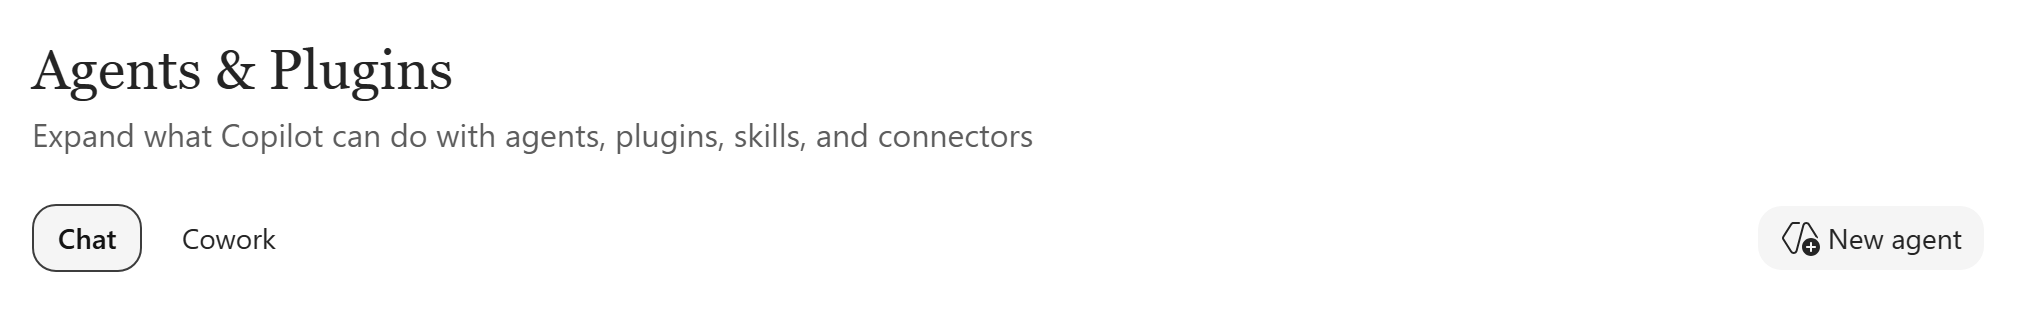
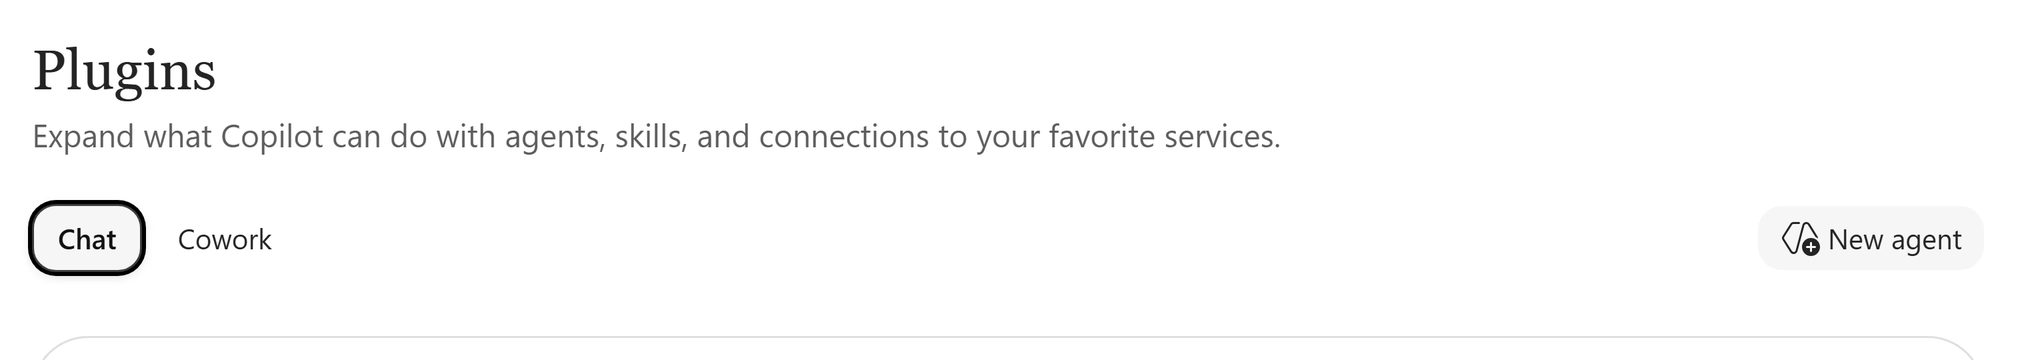
fix(labs): rename Agents & Plugins to Plugins and make the Dataverse Connect step explicit
The left navigation and page heading now read Plugins. Rename the label across the Cowork, Copilot harness, M365 Copilot and declarative agent labs (site and README copies) and drop the 'also called Agents & Plugins' hedges.

The Cowork Dataverse step now says that enabling the plugin is not enough: select Connect Microsoft Dataverse, enter the training CRM URL and confirm Connected.

Refresh the harness Plugins screenshot from the declarative lab's current capture, update the mission test assertion, and align the lab-runthrough and lab-update skill notes and examples.

diff --git a/scripts/lab-missions.test.js b/scripts/lab-missions.test.js
@@ -127,7 +127,7 @@ test('Zava separates work-file Chat, the agent MCP App, and Cowork plugin setup'
   assert.match(agent.steps[2].instruction, /MCP App/);
   assert.match(agent.steps[2].help, /enter `50000` without the currency symbol or comma/);
   assert.match(agent.steps[2].notice, /do not overwrite the renewal amount/);
-  assert.match(delegate.steps[0].instruction, /Agents & Plugins → Cowork → Microsoft Dataverse/);
+  assert.match(delegate.steps[0].instruction, /Plugins → Cowork → Microsoft Dataverse/);
   assert.match(delegate.steps[0].help, /https:\/\/zavasalesdemo\.crm\.dynamics\.com\//);
   assert.match(delegate.steps[1].instruction, /Zava PowerPoint/);
   assert.match(delegate.steps[2].instruction, /explicitly select \*\*Cowork/);

diff --git a/_labs/mission-cowork-zava-sales.md b/_labs/mission-cowork-zava-sales.md
@@ -107,7 +107,7 @@ mission_lab:
           notice: "In this training experience, Chat may not retrieve the live deal and can recommend **Zava Sales Hub** instead. That is the handoff to explore, not proof that Dataverse is unavailable in every Copilot Chat tenant. Do not accept a generic call plan as a verified CRM brief."
         - title: "Follow the Zava Sales Hub recommendation"
           instruction: "Select the recommendation to **Try Zava Sales Hub**. Check that the same renewal prompt is carried into the agent conversation; send it if it is only prefilled. Confirm that you are now talking to **Zava Sales Hub**, then review its deal status, attention points and three call questions against the returned records."
-          notice: "The recommendation's wording can vary. If no card appears, open **Agents & Plugins → Chat**, find the facilitator-provided **Zava Sales Hub** agent, and paste the same prompt there. Some sessions shorten the sidebar label to **Plugins**. If Chat starts a research task instead, select **Stop task** on that task card before opening the agent; do not wait for a separate research run in this exercise. If the agent is unavailable, ask the proctor; do not install a lookalike or invent the CRM answer."
+          notice: "The recommendation's wording can vary. If no card appears, open **Plugins → Chat**, find the facilitator-provided **Zava Sales Hub** agent, and paste the same prompt there. If Chat starts a research task instead, select **Stop task** on that task card before opening the agent; do not wait for a separate research run in this exercise. If the agent is unavailable, ask the proctor; do not install a lookalike or invent the CRM answer."
         - title: "Create a lead in the MCP App"
           instruction: "In the **same Zava Sales Hub agent conversation**, send the follow-up. Select **Confirm** when prompted, complete and review the embedded lead form, then select **Accept and save** once. This interactive form inside the agent is an **MCP App**, not a switch to Cowork."
           prompt_label: Follow-up in Zava Sales Hub
@@ -156,9 +156,9 @@ mission_lab:
       outcome: "A Zava-branded three-slide review separating known facts from open questions, plus real Outlook drafts."
       steps:
         - title: "Connect Microsoft Dataverse"
-          instruction: "Go to **Agents & Plugins → Cowork → Microsoft Dataverse**. Enable it and connect to the training CRM. This is Cowork's connection, separate from the Chat agent you just used; it gives Cowork tools to work with records when you approve."
+          instruction: "Go to **Plugins → Cowork → Microsoft Dataverse** and turn it on. Enabling is not enough: select **Connect Microsoft Dataverse**, enter the training CRM URL `https://zavasalesdemo.crm.dynamics.com/`, and confirm **Connected**. This is Cowork's connection, separate from the Chat agent you just used; it gives Cowork tools to work with records when you approve."
           help: |
-            1. Open **Agents & Plugins** (shown as **Plugins** in some sessions), then the **Cowork** tab.
+            1. Open **Plugins**, then the **Cowork** tab.
             2. Select **Microsoft Dataverse** and turn **Enable Microsoft Dataverse** on.
             3. Select **Connect Microsoft Dataverse**.
             4. Enter `https://zavasalesdemo.crm.dynamics.com/` and select **Connect**.
@@ -172,7 +172,7 @@ mission_lab:
             height: 738
             caption: "Enter https://zavasalesdemo.crm.dynamics.com/, select Connect, then confirm Connected. Use the supplied training environment, not a production CRM."
         - title: "Enable the Zava PowerPoint plugin"
-          instruction: "Still in **Agents & Plugins → Cowork**, open **Zava PowerPoint** and enable it. Inspect the company-branding guidance it supplies. If it is already enabled, leave it enabled; do not confuse it with the optional **Zava Sales** plugin."
+          instruction: "Still in **Plugins → Cowork**, open **Zava PowerPoint** and enable it. Inspect the company-branding guidance it supplies. If it is already enabled, leave it enabled; do not confuse it with the optional **Zava Sales** plugin."
           screenshot:
             title: the company-branding plugin
             src: /labs/cowork-zava-sales/images/zava-powerpoint-plugin.webp
@@ -248,7 +248,7 @@ mission_lab:
 
             If the first save proposes **Overwrite: Yes**, cancel that approval and inspect the destination in OneDrive. If the skill does not exist, ask Cowork to copy it with **overwrite disabled** and stop on a conflict. If it already exists, inspect it before deciding whether to reuse or revise it; do not delete it to make the approval succeed.
 
-            Open **Agents & Plugins → Cowork → Manage all → weekly-deal-review**. If the tile is offscreen in the Added row, use its right arrow or **Manage all**. To inspect the actual instructions, open **OneDrive → My files → Documents → Cowork → skills → weekly-deal-review → SKILL.md** in the training account. An inventory entry alone does not verify the file contents.
+            Open **Plugins → Cowork → Manage all → weekly-deal-review**. If the tile is offscreen in the Added row, use its right arrow or **Manage all**. To inspect the actual instructions, open **OneDrive → My files → Documents → Cowork → skills → weekly-deal-review → SKILL.md** in the training account. An inventory entry alone does not verify the file contents.
           screenshot:
             title: your saved skill
             src: /labs/cowork-zava-sales/images/saved-skill.webp
@@ -257,7 +257,7 @@ mission_lab:
             width: 2400
             height: 288
             caption: "Manage all lists the saved skill under its folder name, weekly-deal-review. Open SKILL.md in OneDrive to inspect the instructions."
-          notice: "A **skill is reusable instructions and a procedure**, not a newly trained model. Find it in **Agents & Plugins → Cowork**, sometimes displayed as **weekly-deal-review**. A new task discovers the saved skill; this task already has the conversation context."
+          notice: "A **skill is reusable instructions and a procedure**, not a newly trained model. Find it in **Plugins → Cowork**, sometimes displayed as **weekly-deal-review**. A new task discovers the saved skill; this task already has the conversation context."
         - title: "Set the time and review the schedule"
           instruction: "Send the scheduling prompt. Review the proposed changes, then confirm **Monday, 8:30 a.m., the intended time zone, your own email as the recipient, and customer emails as drafts**. Complete **Next → Review permissions → Approve** when offered. Leave only one Monday review schedule."
           prompt_label: Same Cowork task
@@ -378,7 +378,7 @@ mission_lab:
           instruction: "Cowork may open **Create recurring task** directly with **Run in: New conversation**. Review that Friday job rather than creating another. If it provides handoff text instead, review it and copy it into **New → Cowork**. In either route, the instructions should name **Weekly Deal Review** and your existing deck, require a backup before skill edits, preserve accounts and permissions, keep customer emails as drafts, and send the recap only to you. Complete the Friday schedule confirmation, clearing **Run once now** so it does not immediately execute. A handoff in the chat is not a saved schedule."
           notice: "This configures future work, not a demonstrated learning result. **No accessible feedback** is a valid result. Automatic updates depend on sources, permissions and successful runs. Skill-file changes may still wait for approval; a backup is needed before the first actual edit."
         - title: "Inspect what persists"
-          instruction: "Find **Weekly Deal Review** under **Agents & Plugins → Cowork**, and review the separate Monday and Friday entries under **Automations**. Check the Friday instructions require a dated backup before edits and report missing or conflicting feedback. After a real feedback run, inspect the change recap, source links and saved previous version."
+          instruction: "Find **Weekly Deal Review** under **Plugins → Cowork**, and review the separate Monday and Friday entries under **Automations**. Check the Friday instructions require a dated backup before edits and report missing or conflicting feedback. After a real feedback run, inspect the change recap, source links and saved previous version."
           screenshot:
             title: the two separate automations
             src: /labs/cowork-zava-sales/images/separate-automations.webp
@@ -417,9 +417,9 @@ mission_lab:
       outcome: "A Northstar account note, a Summit Youth Sports lead with unknown contact details left unknown, and an introduction follow-up task."
       steps:
         - title: "Install Zava Sales, then start a fresh task"
-          instruction: "Open **Agents & Plugins → Cowork**, search for **Zava Sales**, and install it if your facilitator has supplied it. This optional plugin is separate from the **Zava Sales Hub agent** and the **Zava PowerPoint plugin** already used. Install and connect its **Business apps (preview)** prerequisite as described below, then start **New → Cowork** and leave Auto / Medium selected."
+          instruction: "Open **Plugins → Cowork**, search for **Zava Sales**, and install it if your facilitator has supplied it. This optional plugin is separate from the **Zava Sales Hub agent** and the **Zava PowerPoint plugin** already used. Install and connect its **Business apps (preview)** prerequisite as described below, then start **New → Cowork** and leave Auto / Medium selected."
           help: |
-            1. Open **Agents & Plugins** and select the **Cowork** tab.
+            1. Open **Plugins** and select the **Cowork** tab.
             2. Search the available plugins for **Zava Sales**.
             3. Open it, review the capabilities, and select **Install** or **Add** as offered. If it is already installed, leave it enabled.
             4. Check its prerequisites: the workshop plugin requires **Business apps (preview)**, published by **Microsoft Corporation**. Search for **Business apps**, install it if needed, and select **Connect** using your training identity. Verify **Connected** and leave it enabled. The **Microsoft Dataverse** connection from Delegate is separate and does not satisfy this dependency. Use only the supplied training environment and your own connection.
@@ -581,7 +581,7 @@ Help me prepare for a call about Northstar Teamwear’s $250K Pulse renewal. Whe
 
 In this training experience, Chat may not retrieve the live deal and can recommend **Zava Sales Hub** instead. Select the recommendation to **Try Zava Sales Hub**. Check that the same prompt is carried into the agent conversation; send it if it is only prefilled. Confirm that you are now talking to **Zava Sales Hub**, then check the deal status, attention points and three call questions against its returned records.
 
-The recommendation's wording can vary. If no card appears, open **Agents & Plugins → Chat**, find the facilitator-provided **Zava Sales Hub** agent, and paste the same prompt there. Some sessions shorten the sidebar label to **Plugins**. If Chat starts a research task instead, select **Stop task** on that task card before opening the agent; do not wait for a separate research run in this exercise. If Chat answers directly, inspect its sources, then open the agent for the next step anyway. The lab does not require making Chat fail, and this result does **not** establish that Dataverse is unavailable in every Copilot Chat tenant.
+The recommendation's wording can vary. If no card appears, open **Plugins → Chat**, find the facilitator-provided **Zava Sales Hub** agent, and paste the same prompt there. If Chat starts a research task instead, select **Stop task** on that task card before opening the agent; do not wait for a separate research run in this exercise. If Chat answers directly, inspect its sources, then open the agent for the next step anyway. The lab does not require making Chat fail, and this result does **not** establish that Dataverse is unavailable in every Copilot Chat tenant.
 
 In the **same Zava Sales Hub agent conversation**, follow up:
 
@@ -603,13 +603,13 @@ Check the saved lead before retrying to avoid duplicates. If the agent or form i
 
 **11 minutes · Cowork, Microsoft Dataverse and Zava PowerPoint**
 
-1. Go to **Agents & Plugins → Cowork → Microsoft Dataverse**. Some sessions shorten the sidebar label to **Plugins**. This is Cowork's connection, separate from the Chat agent.
+1. Go to **Plugins → Cowork → Microsoft Dataverse**. This is Cowork's connection, separate from the Chat agent.
 2. Turn **Enable Microsoft Dataverse** on, then **Connect Microsoft Dataverse**.
 3. Enter `https://zavasalesdemo.crm.dynamics.com/`, select **Connect**, and confirm **Connected**. If already connected, leave it alone.
 
    <picture><source media="(prefers-color-scheme: dark)" srcset="images/dataverse-connection-dark.webp"><img src="images/dataverse-connection.webp" alt="Connect Microsoft Dataverse dialog with https://zavasalesdemo.crm.dynamics.com/ in the environment URL field"></picture>
 
-4. Still in **Agents & Plugins → Cowork**, enable **Zava PowerPoint** and inspect its company-branding guidance. If already enabled, leave it enabled. This is not the optional **Zava Sales** plugin. Ask the facilitator if it is missing; do not silently substitute a generic deck.
+4. Still in **Plugins → Cowork**, enable **Zava PowerPoint** and inspect its company-branding guidance. If already enabled, leave it enabled. This is not the optional **Zava Sales** plugin. Ask the facilitator if it is missing; do not silently substitute a generic deck.
 
    <picture><source media="(prefers-color-scheme: dark)" srcset="images/zava-powerpoint-plugin-dark.webp"><img src="images/zava-powerpoint-plugin.webp" alt="The enabled Zava PowerPoint plugin with its corporate-branding guidance and zava-powerpoint-brand skill"></picture>
 
@@ -655,12 +655,12 @@ If a **Copy file** approval appears, check that its destination is your Cowork f
 
 If the first save proposes **Overwrite: Yes**, cancel that approval and inspect the destination in OneDrive. If the skill does not exist, ask Cowork to copy it with **overwrite disabled** and stop on a conflict. If it already exists, inspect it before deciding whether to reuse or revise it; do not delete it to make the approval succeed.
 
-Let skill creation finish. Inspect the saved instructions: the same three accounts, three slides, facts versus questions, Zava PowerPoint branding guidance, and draft-only customer follow-ups. Find skills under **Agents & Plugins → Cowork**; this one may appear as **weekly-deal-review**. A skill is reusable instructions and a procedure, **not model retraining**.
+Let skill creation finish. Inspect the saved instructions: the same three accounts, three slides, facts versus questions, Zava PowerPoint branding guidance, and draft-only customer follow-ups. Find skills under **Plugins → Cowork**; this one may appear as **weekly-deal-review**. A skill is reusable instructions and a procedure, **not model retraining**.
 
 <details>
 <summary>Help: find and inspect the saved skill</summary>
 
-Open **Agents & Plugins → Cowork → Manage all → weekly-deal-review**. If its tile is offscreen in the Added row, use the right arrow or **Manage all**. Inspect the actual instructions in **OneDrive → My files → Documents → Cowork → skills → weekly-deal-review → SKILL.md** in your training account.
+Open **Plugins → Cowork → Manage all → weekly-deal-review**. If its tile is offscreen in the Added row, use the right arrow or **Manage all**. Inspect the actual instructions in **OneDrive → My files → Documents → Cowork → skills → weekly-deal-review → SKILL.md** in your training account.
 
 If the skill page says it could not verify `SKILL.md` in OneDrive, reload once, then check the existing file there. An inventory entry alone does not verify its contents. Do not delete Cowork folders or create duplicate skills to clear the warning. If the file is absent or unreadable, ask your facilitator before continuing to skill reuse.
 
@@ -742,7 +742,7 @@ Cowork may open **Create recurring task** directly with **Run in: New conversati
 
 This configures future work, not a demonstrated learning result. **No accessible feedback** is valid; invented feedback is not. Automatic changes depend on available sources, permissions and successful runs. Skill-file changes may still wait for approval.
 
-Find **Weekly Deal Review** under **Agents & Plugins → Cowork** and the separate Monday and Friday schedules under **Automations**. Check the Friday instructions require a dated backup before edits and report missing or conflicting feedback. After a real feedback run, inspect the change recap, source links and saved previous version.
+Find **Weekly Deal Review** under **Plugins → Cowork** and the separate Monday and Friday schedules under **Automations**. Check the Friday instructions require a dated backup before edits and report missing or conflicting feedback. After a real feedback run, inspect the change recap, source links and saved previous version.
 
 <picture><source media="(prefers-color-scheme: dark)" srcset="images/separate-automations-dark.webp"><img src="images/separate-automations.webp" alt="Separate Monday pipeline-review and Friday skill-improvement schedules"></picture>
 
@@ -752,7 +752,7 @@ Find **Weekly Deal Review** under **Agents & Plugins → Cowork** and the separa
 
 **Optional · 8 minutes · New Cowork task**
 
-1. Open **Agents & Plugins → Cowork**, search for **Zava Sales**, and install/add it if your facilitator has supplied it. If already installed, leave it enabled. This optional plugin is separate from the **Zava Sales Hub agent** and the **Zava PowerPoint plugin** already used.
+1. Open **Plugins → Cowork**, search for **Zava Sales**, and install/add it if your facilitator has supplied it. If already installed, leave it enabled. This optional plugin is separate from the **Zava Sales Hub agent** and the **Zava PowerPoint plugin** already used.
 2. Review its skills, connections and prerequisites. The workshop plugin requires **Business apps (preview)**, published by **Microsoft Corporation**. Search for **Business apps**, install it if needed, and select **Connect** using your training identity. Verify **Connected** and leave it enabled. The **Microsoft Dataverse** connection from Delegate is separate and does not satisfy this dependency. Use only the supplied training environment and your own connection.
 3. Start **New → Cowork** so the task discovers the plugin. Leave **Auto / Medium** selected.
 4. Send:

diff --git a/labs/cowork-zava-sales/README.md b/labs/cowork-zava-sales/README.md
@@ -74,7 +74,7 @@ Help me prepare for a call about Northstar Teamwear’s $250K Pulse renewal. Whe
 
 In this training experience, Chat may not retrieve the live deal and can recommend **Zava Sales Hub** instead. Select the recommendation to **Try Zava Sales Hub**. Check that the same prompt is carried into the agent conversation; send it if it is only prefilled. Confirm that you are now talking to **Zava Sales Hub**, then check the deal status, attention points and three call questions against its returned records.
 
-The recommendation's wording can vary. If no card appears, open **Agents & Plugins → Chat**, find the facilitator-provided **Zava Sales Hub** agent, and paste the same prompt there. Some sessions shorten the sidebar label to **Plugins**. If Chat starts a research task instead, select **Stop task** on that task card before opening the agent; do not wait for a separate research run in this exercise. If Chat answers directly, inspect its sources, then open the agent for the next step anyway. The lab does not require making Chat fail, and this result does **not** establish that Dataverse is unavailable in every Copilot Chat tenant.
+The recommendation's wording can vary. If no card appears, open **Plugins → Chat**, find the facilitator-provided **Zava Sales Hub** agent, and paste the same prompt there. If Chat starts a research task instead, select **Stop task** on that task card before opening the agent; do not wait for a separate research run in this exercise. If Chat answers directly, inspect its sources, then open the agent for the next step anyway. The lab does not require making Chat fail, and this result does **not** establish that Dataverse is unavailable in every Copilot Chat tenant.
 
 In the **same Zava Sales Hub agent conversation**, follow up:
 
@@ -96,13 +96,13 @@ Check the saved lead before retrying to avoid duplicates. If the agent or form i
 
 **11 minutes · Cowork, Microsoft Dataverse and Zava PowerPoint**
 
-1. Go to **Agents & Plugins → Cowork → Microsoft Dataverse**. Some sessions shorten the sidebar label to **Plugins**. This is Cowork's connection, separate from the Chat agent.
+1. Go to **Plugins → Cowork → Microsoft Dataverse**. This is Cowork's connection, separate from the Chat agent.
 2. Turn **Enable Microsoft Dataverse** on, then **Connect Microsoft Dataverse**.
 3. Enter `https://zavasalesdemo.crm.dynamics.com/`, select **Connect**, and confirm **Connected**. If already connected, leave it alone.
 
    <picture><source media="(prefers-color-scheme: dark)" srcset="images/dataverse-connection-dark.webp"><img src="images/dataverse-connection.webp" alt="Connect Microsoft Dataverse dialog with https://zavasalesdemo.crm.dynamics.com/ in the environment URL field"></picture>
 
-4. Still in **Agents & Plugins → Cowork**, enable **Zava PowerPoint** and inspect its company-branding guidance. If already enabled, leave it enabled. This is not the optional **Zava Sales** plugin. Ask the facilitator if it is missing; do not silently substitute a generic deck.
+4. Still in **Plugins → Cowork**, enable **Zava PowerPoint** and inspect its company-branding guidance. If already enabled, leave it enabled. This is not the optional **Zava Sales** plugin. Ask the facilitator if it is missing; do not silently substitute a generic deck.
 
    <picture><source media="(prefers-color-scheme: dark)" srcset="images/zava-powerpoint-plugin-dark.webp"><img src="images/zava-powerpoint-plugin.webp" alt="The enabled Zava PowerPoint plugin with its corporate-branding guidance and zava-powerpoint-brand skill"></picture>
 
@@ -148,12 +148,12 @@ If a **Copy file** approval appears, check that its destination is your Cowork f
 
 If the first save proposes **Overwrite: Yes**, cancel that approval and inspect the destination in OneDrive. If the skill does not exist, ask Cowork to copy it with **overwrite disabled** and stop on a conflict. If it already exists, inspect it before deciding whether to reuse or revise it; do not delete it to make the approval succeed.
 
-Let skill creation finish. Inspect the saved instructions: the same three accounts, three slides, facts versus questions, Zava PowerPoint branding guidance, and draft-only customer follow-ups. Find skills under **Agents & Plugins → Cowork**; this one may appear as **weekly-deal-review**. A skill is reusable instructions and a procedure, **not model retraining**.
+Let skill creation finish. Inspect the saved instructions: the same three accounts, three slides, facts versus questions, Zava PowerPoint branding guidance, and draft-only customer follow-ups. Find skills under **Plugins → Cowork**; this one may appear as **weekly-deal-review**. A skill is reusable instructions and a procedure, **not model retraining**.
 
 <details>
 <summary>Help: find and inspect the saved skill</summary>
 
-Open **Agents & Plugins → Cowork → Manage all → weekly-deal-review**. If its tile is offscreen in the Added row, use the right arrow or **Manage all**. Inspect the actual instructions in **OneDrive → My files → Documents → Cowork → skills → weekly-deal-review → SKILL.md** in your training account.
+Open **Plugins → Cowork → Manage all → weekly-deal-review**. If its tile is offscreen in the Added row, use the right arrow or **Manage all**. Inspect the actual instructions in **OneDrive → My files → Documents → Cowork → skills → weekly-deal-review → SKILL.md** in your training account.
 
 If the skill page says it could not verify `SKILL.md` in OneDrive, reload once, then check the existing file there. An inventory entry alone does not verify its contents. Do not delete Cowork folders or create duplicate skills to clear the warning. If the file is absent or unreadable, ask your facilitator before continuing to skill reuse.
 
@@ -235,7 +235,7 @@ Cowork may open **Create recurring task** directly with **Run in: New conversati
 
 This configures future work, not a demonstrated learning result. **No accessible feedback** is valid; invented feedback is not. Automatic changes depend on available sources, permissions and successful runs. Skill-file changes may still wait for approval.
 
-Find **Weekly Deal Review** under **Agents & Plugins → Cowork** and the separate Monday and Friday schedules under **Automations**. Check the Friday instructions require a dated backup before edits and report missing or conflicting feedback. After a real feedback run, inspect the change recap, source links and saved previous version.
+Find **Weekly Deal Review** under **Plugins → Cowork** and the separate Monday and Friday schedules under **Automations**. Check the Friday instructions require a dated backup before edits and report missing or conflicting feedback. After a real feedback run, inspect the change recap, source links and saved previous version.
 
 <picture><source media="(prefers-color-scheme: dark)" srcset="images/separate-automations-dark.webp"><img src="images/separate-automations.webp" alt="Separate Monday pipeline-review and Friday skill-improvement schedules"></picture>
 
@@ -245,7 +245,7 @@ Find **Weekly Deal Review** under **Agents & Plugins → Cowork** and the separa
 
 **Optional · 8 minutes · New Cowork task**
 
-1. Open **Agents & Plugins → Cowork**, search for **Zava Sales**, and install/add it if your facilitator has supplied it. If already installed, leave it enabled. This optional plugin is separate from the **Zava Sales Hub agent** and the **Zava PowerPoint plugin** already used.
+1. Open **Plugins → Cowork**, search for **Zava Sales**, and install/add it if your facilitator has supplied it. If already installed, leave it enabled. This optional plugin is separate from the **Zava Sales Hub agent** and the **Zava PowerPoint plugin** already used.
 2. Review its skills, connections and prerequisites. The workshop plugin requires **Business apps (preview)**, published by **Microsoft Corporation**. Search for **Business apps**, install it if needed, and select **Connect** using your training identity. Verify **Connected** and leave it enabled. The **Microsoft Dataverse** connection from Delegate is separate and does not satisfy this dependency. Use only the supplied training environment and your own connection.
 3. Start **New → Cowork** so the task discovers the plugin. Leave **Auto / Medium** selected.
 4. Send:

diff --git a/_labs/mission-declarative-agent-skill-reuse.md b/_labs/mission-declarative-agent-skill-reuse.md
@@ -31,7 +31,7 @@ mission_lab:
 
     This exercise uses Agent Builder for a declarative agent. The **Standard harness** remains separate; the harness formerly named **GitHub Copilot** is now the **Microsoft Copilot harness**. Do not substitute either Studio experience for these Agent Builder steps.
   self_setup: |-
-    Arrange a Microsoft 365 account with Microsoft Copilot that can create agents in Agent Builder and add skills. Check **Plugins > Chat > New agent > Configure** for **Skills**, following the linked licensing and skills documentation. Some versions label the entry **Agents & Plugins**. For the optional extension, prepare Visual Studio Code, a skill-capable Microsoft 365 Agents Toolkit release and an approved SharePoint or OneDrive location. Provisioning is outside the core slot.
+    Arrange a Microsoft 365 account with Microsoft Copilot that can create agents in Agent Builder and add skills. Check **Plugins > Chat > New agent > Configure** for **Skills**, following the linked licensing and skills documentation. For the optional extension, prepare Visual Studio Code, a skill-capable Microsoft 365 Agents Toolkit release and an approved SharePoint or OneDrive location. Provisioning is outside the core slot.
   prerequisites:
     - "Sign in to [Microsoft Copilot](https://copilot.cloud.microsoft) with your assigned training account."
     - "Download the starter in Mission 1 and the report in Mission 3; do not skip those exercise inputs."
@@ -81,7 +81,7 @@ mission_lab:
       steps:
         - title: "Open the configuration"
           instruction: |
-            Open [Microsoft Copilot](https://copilot.cloud.microsoft). Select **Plugins** (called **Agents & Plugins** in some versions), open the **Chat** tab and select **New agent**, then **Skip** to open **Configure**. If **What's new in Agent Builder** appears, select **Get started**. Dismiss any completion notifications covering the tabs.
+            Open [Microsoft Copilot](https://copilot.cloud.microsoft). Select **Plugins**, open the **Chat** tab and select **New agent**, then **Skip** to open **Configure**. If **What's new in Agent Builder** appears, select **Get started**. Dismiss any completion notifications covering the tabs.
 
             The onboarding describes work content enabled by default. You will turn it off in Mission 3 before testing; do not assume the new agent is report-only.
           screenshot:
@@ -375,7 +375,7 @@ You lead operations at **Contoso Grand Hotel**. Identify five urgent issues in t
 <details class="lab-setup" markdown="1">
 <summary>Using your own tenant? View setup requirements</summary>
 
-Arrange a Microsoft 365 account with Microsoft Copilot that can create agents in Agent Builder and add skills. Check **Plugins > Chat > New agent > Configure** for **Skills** and consult the licensing and skills sources below. Some versions label the entry **Agents & Plugins**. Optional: prepare Visual Studio Code, a skill-capable Microsoft 365 Agents Toolkit release and an approved SharePoint or OneDrive location. Provisioning is outside the core slot.
+Arrange a Microsoft 365 account with Microsoft Copilot that can create agents in Agent Builder and add skills. Check **Plugins > Chat > New agent > Configure** for **Skills** and consult the licensing and skills sources below. Optional: prepare Visual Studio Code, a skill-capable Microsoft 365 Agents Toolkit release and an approved SharePoint or OneDrive location. Provisioning is outside the core slot.
 
 </details>
 
@@ -405,7 +405,7 @@ This lab uses **Agent Builder** for a declarative agent. The **Standard harness*
 
 **Outcome:** a focused role and an uploaded skill.
 
-1. Select **Plugins** (called **Agents & Plugins** in some versions), open the **Chat** tab and select **New agent**, then **Skip** to open **Configure**. If **What's new in Agent Builder** appears, select **Get started**. Dismiss completion notifications covering the tabs. Work-content defaults are on; you turn them off in Mission 3 before testing.
+1. Select **Plugins**, open the **Chat** tab and select **New agent**, then **Skip** to open **Configure**. If **What's new in Agent Builder** appears, select **Get started**. Dismiss completion notifications covering the tabs. Work-content defaults are on; you turn them off in Mission 3 before testing.
 
 <picture><source media="(prefers-color-scheme: dark)" srcset="images/agents-skills-new-agent-dark.webp"><img src="images/agents-skills-new-agent.webp" alt="Plugins page with the Chat tab selected and New agent on the right."></picture>
 

diff --git a/_labs/mcs-m365-copilot-latest.md b/_labs/mcs-m365-copilot-latest.md
@@ -65,7 +65,7 @@ Microsoft Copilot also includes built-in agents: **Researcher** performs multi-s
 <summary>Using your own tenant? View setup requirements</summary>
 
 - A Microsoft 365 account with a Microsoft Copilot licence
-- (Extra Credit) The **Researcher** and **Analyst** agents available in the Microsoft Copilot app (listed under **Agents & Plugins**)
+- (Extra Credit) The **Researcher** and **Analyst** agents available in the Microsoft Copilot app (listed under **Plugins**)
 - For Use Case #2, upload these files to a OneDrive or SharePoint location the account can access, so Work IQ can find them:
   - [Zava DIY Markdown and Clearance Policy](../m365-copilot-frontier-agents/assets/sample-files/Zava_DIY_Markdown_and_Clearance_Policy.docx)
   - [Zava DIY Q2 2026 Store Performance Report](../m365-copilot-frontier-agents/assets/sample-files/Zava_DIY_Q2_2026_Store_Performance_Report.pdf)
@@ -387,12 +387,12 @@ Use the Researcher agent to perform two deep-analysis tasks on a complex PDF doc
 2. Navigate to the Microsoft Copilot app: <https://copilot.cloud.microsoft/>.
 
 3. Open the **Researcher** agent:
-   - Select **Agents & Plugins** in the left pane, then select **Researcher** under **Added**.
+   - Select **Plugins** in the left pane, then select **Researcher** under **Added**.
    - Or type `@Researcher` in the prompt box and choose it from the list.
 
    The agent opens with the prompt **What do you want to research today?**
 
-   ![Agents and Plugins page with Researcher and Analyst listed under Added](images/lab-m365copilot-agents-plugins.png)
+   ![Plugins page with Researcher and Analyst listed under Added](images/lab-m365copilot-agents-plugins.png)
 
 > [!TIP]
 > The Researcher agent is one of the **built-in agents** in Microsoft Copilot — purpose-built AI agents that use advanced reasoning models. Researcher excels at deep document analysis, cross-referencing multiple sections, and synthesizing complex information. It's available to users with a Microsoft Copilot license.
@@ -500,7 +500,7 @@ Use the Analyst agent to perform a detailed ROI analysis with NPV, IRR, and disc
 1. Navigate to the Microsoft Copilot app: <https://copilot.cloud.microsoft/>.
 
 2. Open the **Analyst** agent:
-   - Select **Agents & Plugins** in the left pane, then select **Analyst** under **Added**.
+   - Select **Plugins** in the left pane, then select **Analyst** under **Added**.
    - Or type `@Analyst` in the prompt box and choose it from the list.
 
 > [!TIP]

diff --git a/labs/mcs-m365-copilot-latest/README.md b/labs/mcs-m365-copilot-latest/README.md
@@ -51,7 +51,7 @@ Microsoft Copilot also includes built-in agents: **Researcher** performs multi-s
 <summary>Using your own tenant? View setup requirements</summary>
 
 - A Microsoft 365 account with a Microsoft Copilot licence
-- (Extra Credit) The **Researcher** and **Analyst** agents available in the Microsoft Copilot app (listed under **Agents & Plugins**)
+- (Extra Credit) The **Researcher** and **Analyst** agents available in the Microsoft Copilot app (listed under **Plugins**)
 - For Use Case #2, upload these files to a OneDrive or SharePoint location the account can access, so Work IQ can find them:
   - [Zava DIY Markdown and Clearance Policy](../m365-copilot-frontier-agents/assets/sample-files/Zava_DIY_Markdown_and_Clearance_Policy.docx)
   - [Zava DIY Q2 2026 Store Performance Report](../m365-copilot-frontier-agents/assets/sample-files/Zava_DIY_Q2_2026_Store_Performance_Report.pdf)
@@ -373,12 +373,12 @@ Use the Researcher agent to perform two deep-analysis tasks on a complex PDF doc
 2. Navigate to the Microsoft Copilot app: <https://copilot.cloud.microsoft/>.
 
 3. Open the **Researcher** agent:
-   - Select **Agents & Plugins** in the left pane, then select **Researcher** under **Added**.
+   - Select **Plugins** in the left pane, then select **Researcher** under **Added**.
    - Or type `@Researcher` in the prompt box and choose it from the list.
 
    The agent opens with the prompt **What do you want to research today?**
 
-   ![Agents and Plugins page with Researcher and Analyst listed under Added](images/lab-m365copilot-agents-plugins.png)
+   ![Plugins page with Researcher and Analyst listed under Added](images/lab-m365copilot-agents-plugins.png)
 
 > [!TIP]
 > The Researcher agent is one of the **built-in agents** in Microsoft Copilot — purpose-built AI agents that use advanced reasoning models. Researcher excels at deep document analysis, cross-referencing multiple sections, and synthesizing complex information. It's available to users with a Microsoft Copilot license.
@@ -486,7 +486,7 @@ Use the Analyst agent to perform a detailed ROI analysis with NPV, IRR, and disc
 1. Navigate to the Microsoft Copilot app: <https://copilot.cloud.microsoft/>.
 
 2. Open the **Analyst** agent:
-   - Select **Agents & Plugins** in the left pane, then select **Analyst** under **Added**.
+   - Select **Plugins** in the left pane, then select **Analyst** under **Added**.
    - Or type `@Analyst` in the prompt box and choose it from the list.
 
 > [!TIP]

diff --git a/labs/declarative-agent-skill-reuse/README.md b/labs/declarative-agent-skill-reuse/README.md
@@ -35,7 +35,7 @@ You lead operations at **Contoso Grand Hotel**. Identify five urgent issues in t
 <details class="lab-setup" markdown="1">
 <summary>Using your own tenant? View setup requirements</summary>
 
-Arrange a Microsoft 365 account with Microsoft Copilot that can create agents in Agent Builder and add skills. Check **Plugins > Chat > New agent > Configure** for **Skills** and consult the licensing and skills sources below. Some versions label the entry **Agents & Plugins**. Optional: prepare Visual Studio Code, a skill-capable Microsoft 365 Agents Toolkit release and an approved SharePoint or OneDrive location. Provisioning is outside the core slot.
+Arrange a Microsoft 365 account with Microsoft Copilot that can create agents in Agent Builder and add skills. Check **Plugins > Chat > New agent > Configure** for **Skills** and consult the licensing and skills sources below. Optional: prepare Visual Studio Code, a skill-capable Microsoft 365 Agents Toolkit release and an approved SharePoint or OneDrive location. Provisioning is outside the core slot.
 
 </details>
 
@@ -65,7 +65,7 @@ This lab uses **Agent Builder** for a declarative agent. The **Standard harness*
 
 **Outcome:** a focused role and an uploaded skill.
 
-1. Select **Plugins** (called **Agents & Plugins** in some versions), open the **Chat** tab and select **New agent**, then **Skip** to open **Configure**. If **What's new in Agent Builder** appears, select **Get started**. Dismiss completion notifications covering the tabs. Work-content defaults are on; you turn them off in Mission 3 before testing.
+1. Select **Plugins**, open the **Chat** tab and select **New agent**, then **Skip** to open **Configure**. If **What's new in Agent Builder** appears, select **Get started**. Dismiss completion notifications covering the tabs. Work-content defaults are on; you turn them off in Mission 3 before testing.
 
 <picture><source media="(prefers-color-scheme: dark)" srcset="images/agents-skills-new-agent-dark.webp"><img src="images/agents-skills-new-agent.webp" alt="Plugins page with the Chat tab selected and New agent on the right."></picture>
 

diff --git a/_labs/mcs-copilot-harness-latest.md b/_labs/mcs-copilot-harness-latest.md
@@ -68,7 +68,7 @@ By the end, you will be able to:
 <details class="lab-setup" markdown="1">
 <summary>Using your own tenant? View setup requirements</summary>
 
-- A Microsoft 365 account with Microsoft Copilot that can create agents in Agent Builder and add skills to them. To check, open [Microsoft Copilot](https://m365.cloud.microsoft), select **Agents & Plugins**, open the **Chat** tab, select **New agent**, and look for a **Skills** section on the **Configure** tab.
+- A Microsoft 365 account with Microsoft Copilot that can create agents in Agent Builder and add skills to them. To check, open [Microsoft Copilot](https://m365.cloud.microsoft), select **Plugins**, open the **Chat** tab, select **New agent**, and look for a **Skills** section on the **Configure** tab.
 - For the optional pro-code exercise:
   - Visual Studio Code and a Microsoft 365 Agents Toolkit release that supports declarative agent skills.
   - A SharePoint or OneDrive location you can use for the hotel PDF.
@@ -123,9 +123,9 @@ The report is evidence, not a place to store agent instructions. The skill descr
 ### Step 2: Create Contoso Operations agent
 
 1. Open [Microsoft Copilot](https://m365.cloud.microsoft) and sign in with your lab account.
-2. In the left pane, select **Agents & Plugins**, open the **Chat** tab, and then select **New agent**.
+2. In the left pane, select **Plugins**, open the **Chat** tab, and then select **New agent**.
 
-   ![The Agents & Plugins page in Microsoft Copilot, with the Chat tab selected and New agent on the right](images/agents-skills-new-agent.png)
+   ![The Plugins page in Microsoft Copilot, with the Chat tab selected and New agent on the right](images/agents-skills-new-agent.png)
 
 3. Select **Skip** to go straight to the **Configure** tab. You can also describe the agent in the creation conversation and then review it on **Configure**.
 4. If **What's new in Agent Builder** appears, select **Get started**. The dialog explains that new agents can use your OneDrive and SharePoint files, Outlook, Teams, and the web by default. You turn those off in Step 4.

diff --git a/labs/mcs-copilot-harness-latest/README.md b/labs/mcs-copilot-harness-latest/README.md
@@ -56,7 +56,7 @@ By the end, you will be able to:
 <details class="lab-setup" markdown="1">
 <summary>Using your own tenant? View setup requirements</summary>
 
-- A Microsoft 365 account with Microsoft Copilot that can create agents in Agent Builder and add skills to them. To check, open [Microsoft Copilot](https://m365.cloud.microsoft), select **Agents & Plugins**, open the **Chat** tab, select **New agent**, and look for a **Skills** section on the **Configure** tab.
+- A Microsoft 365 account with Microsoft Copilot that can create agents in Agent Builder and add skills to them. To check, open [Microsoft Copilot](https://m365.cloud.microsoft), select **Plugins**, open the **Chat** tab, select **New agent**, and look for a **Skills** section on the **Configure** tab.
 - For the optional pro-code exercise:
   - Visual Studio Code and a Microsoft 365 Agents Toolkit release that supports declarative agent skills.
   - A SharePoint or OneDrive location you can use for the hotel PDF.
@@ -111,9 +111,9 @@ The report is evidence, not a place to store agent instructions. The skill descr
 ### Step 2: Create Contoso Operations agent
 
 1. Open [Microsoft Copilot](https://m365.cloud.microsoft) and sign in with your lab account.
-2. In the left pane, select **Agents & Plugins**, open the **Chat** tab, and then select **New agent**.
+2. In the left pane, select **Plugins**, open the **Chat** tab, and then select **New agent**.
 
-   ![The Agents & Plugins page in Microsoft Copilot, with the Chat tab selected and New agent on the right](images/agents-skills-new-agent.png)
+   ![The Plugins page in Microsoft Copilot, with the Chat tab selected and New agent on the right](images/agents-skills-new-agent.png)
 
 3. Select **Skip** to go straight to the **Configure** tab. You can also describe the agent in the creation conversation and then review it on **Configure**.
 4. If **What's new in Agent Builder** appears, select **Get started**. The dialog explains that new agents can use your OneDrive and SharePoint files, Outlook, Teams, and the web by default. You turn those off in Step 4.

diff --git a/.github/skills/lab-runthrough/references/browser-session.md b/.github/skills/lab-runthrough/references/browser-session.md
@@ -312,8 +312,9 @@ when a run-through finds something new, and date it.
 - Wait for `domcontentloaded` plus a `wait` on visible text. Copilot keeps network
   connections open, so "network idle" never comes.
 - Slash commands such as `/cost` are only submitted by clicking Send, not by Enter.
-- The left navigation label alternates between **Plugins** and **Agents & Plugins**.
-  Labs should name the destination ("the plugins page") or show both.
+- The left navigation label and the page heading read **Plugins** (2026-11-09); earlier
+  runs showed **Agents & Plugins**. Labs use **Plugins** with no "also called" hedge.
+  Re-capture any older screenshot that still shows the old heading.
 - The Zava Sales plugin needs the **Microsoft Business apps (preview)** plugin enabled first.
 - Fluent switches report on/off through the `checked` property; `controls` shows `[on]`.
 - An unfocused window closes menus and pauses rendering. `connect` turns on focus

diff --git a/.github/skills/lab-update/SKILL.md b/.github/skills/lab-update/SKILL.md
@@ -187,7 +187,7 @@ the audit with `main` when the lab already had findings: the PR should not add a
    conflict; reconcile it with the requested change and retain a backup before resolving
    dirty work.
 2. Commit both copies, images and any terms or agenda changes, with a message such as
-   `fix(<slug>): update Cowork plugin steps for the new Agents & Plugins page`.
+   `fix(<slug>): update Cowork plugin steps for the renamed Plugins page`.
 3. Before pushing, verify the authenticated GitHub account, target repo, head repo and
    branch. Push only after local validation. Open the PR against `microsoft/mcs-labs`
    `main` with `gh pr create` and a current body from `templates/pr-body.md`; include

diff --git a/.github/skills/lab-runthrough/SKILL.md b/.github/skills/lab-runthrough/SKILL.md
@@ -137,7 +137,7 @@ For each step or mission, in order:
 | Status | Meaning | Example |
 | --- | --- | --- |
 | passed | Works as written | Button and result match |
-| drift | The product changed; the lab is now wrong | "Plugins" is now "Agents & Plugins" |
+| drift | The product changed; the lab is now wrong | "Agents & Plugins" is now "Plugins" |
 | defect | The lab was wrong or unclear all along | Step skips a required toggle |
 | variance | AI output differs but meets the goal | Different wording, same three slides |
 | blocked | The environment stopped you | Missing license, plugin not installed |
